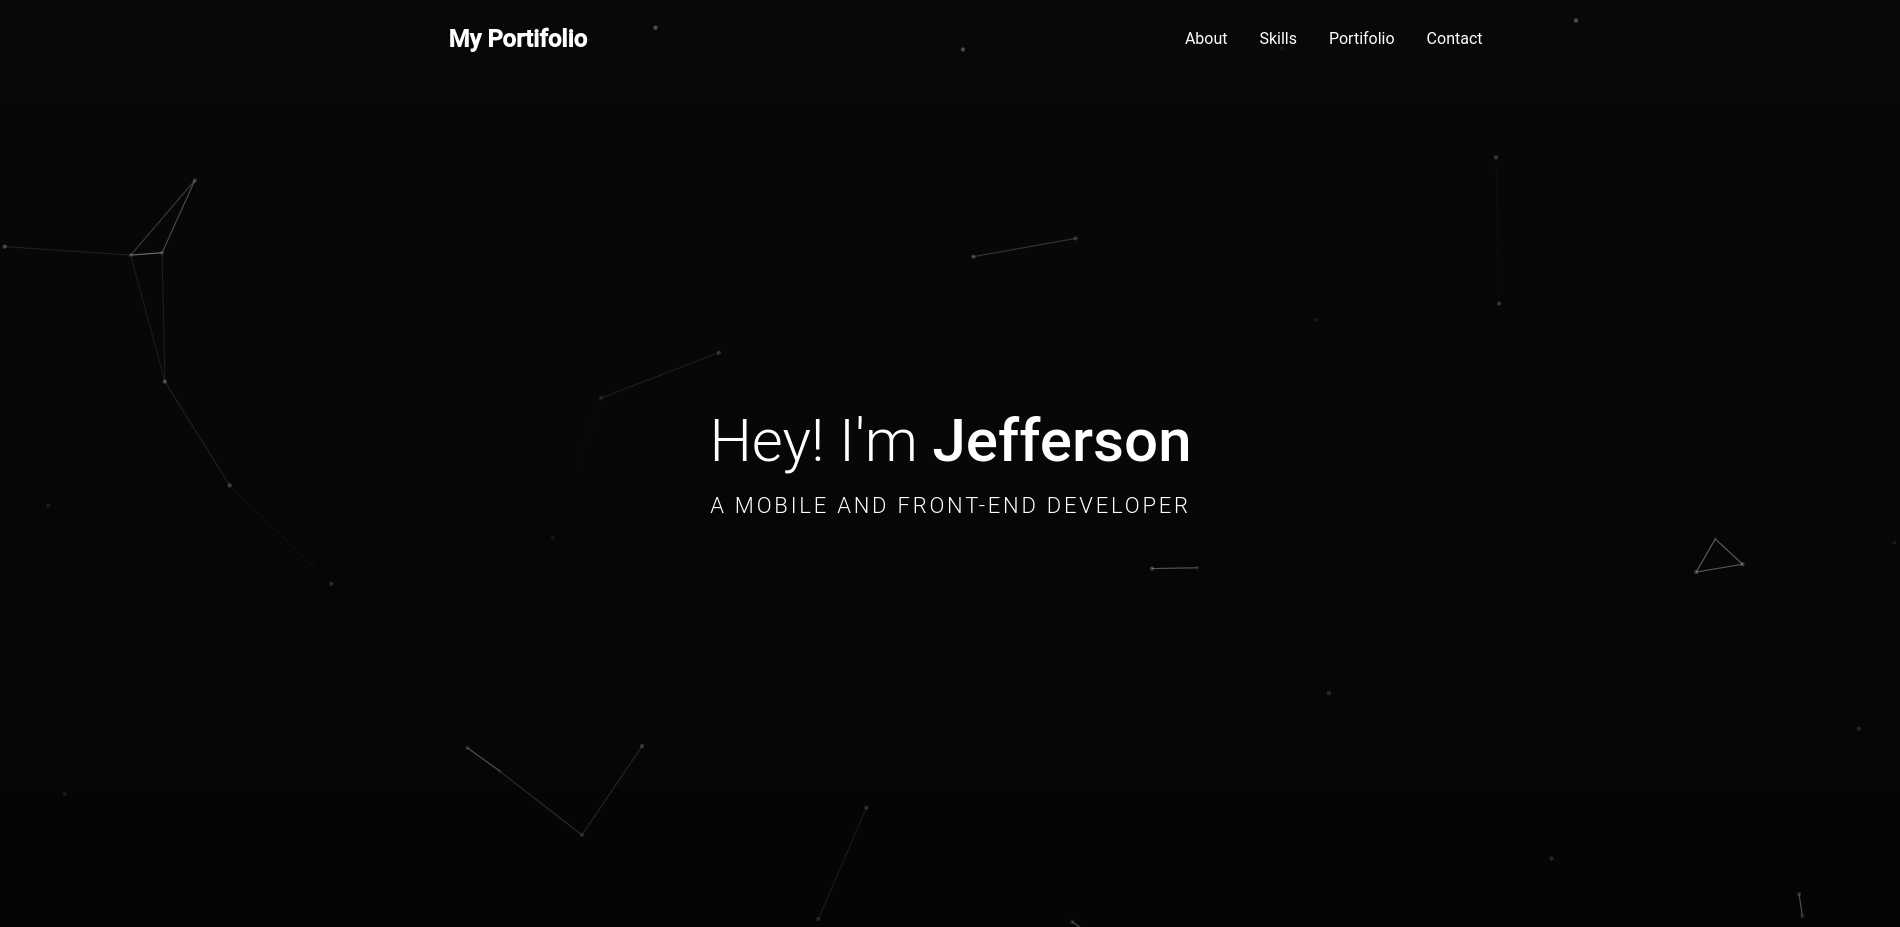
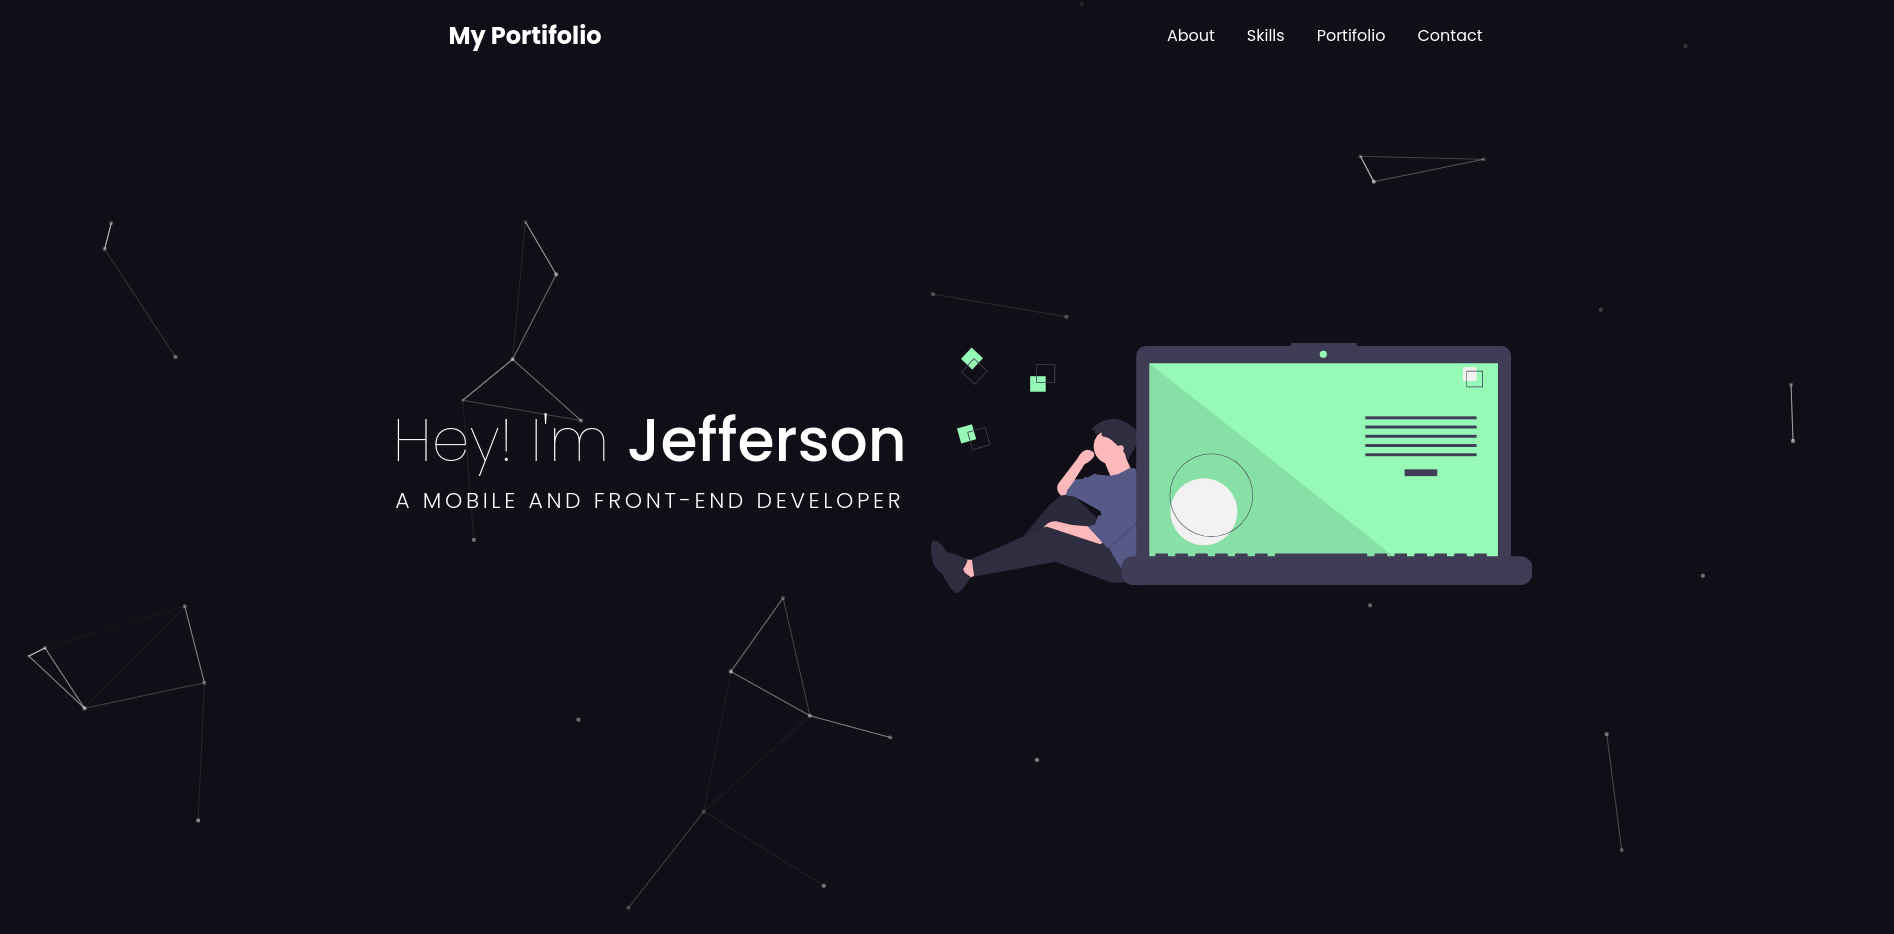
Skills e Contact arrumados

diff --git a/src/pages/index.tsx b/src/pages/index.tsx
@@ -16,6 +16,7 @@ import img from '../images/svg-1.svg'
 import {
   Container,
   Container2,
+  Contact,
   Home,
   About,
   Skills,
@@ -29,14 +30,7 @@ import {
   Column2,
   ImgWrap,
   Img,
-  Line,
-  Wrap,
-  SocialMedia,
-  SocialMediaWrap,
-  SocialIcons,
-  SocialIconsLink,
   SocialLogo,
-  WebsiteRights,
 } from './styles'
 
 const LandingPage = (): JSX.Element => {
@@ -114,52 +108,57 @@ const LandingPage = (): JSX.Element => {
           <Tilt>
             <div className="card">
               <div className="content">
-                <h2>01</h2>
-                <h3>Card One</h3>
-                <p>
+                <h2>JS</h2>
+
+                <SiJavascript size="200px" color="#E9D44C" />
+                {/* <h3>Card One</h3> */}
+                {/* <p>
                   lorem ipsum dolor sit amet, consectetur adipis ac turpis eu
                   non pro id el component e.
-                </p>
-                <a href="/">Read More</a>
+                </p> */}
+                <a href="/">Javascript</a>
               </div>
             </div>
           </Tilt>
           <Tilt>
             <div className="card">
               <div className="content">
-                <h2>02</h2>
-                <h3>Card Two</h3>
+                <h2>JSX</h2>
+                <SiReact size="200px" color="#61DBFB" />
+                {/* <h3>Card Two</h3>
                 <p>
                   lorem ipsum dolor sit amet, consectetur adipis ac turpis eu
                   non pro id el component e.
-                </p>
-                <a href="/">Read More</a>
+                </p> */}
+                <a href="/">React</a>
               </div>
             </div>
           </Tilt>
           <Tilt>
             <div className="card">
               <div className="content">
-                <h2>03</h2>
-                <h3>Card Three</h3>
+                <h2>HTML</h2>
+                <SiHtml5 size="200px" color="#DC4D25" />
+                {/* <h3>Card Three</h3>
                 <p>
                   lorem ipsum dolor sit amet, consectetur adipis ac turpis eu
                   non pro id el component e.
-                </p>
-                <a href="/">Read More</a>
+                </p> */}
+                <a href="/">HTML</a>
               </div>
             </div>
           </Tilt>
           <Tilt>
             <div className="card">
               <div className="content">
-                <h2>04</h2>
-                <h3>Card Four</h3>
+                <h2>CSS</h2>
+                <SiCss3 size="200px" color="#1A6FB4" />
+                {/* <h3>Card Four</h3>
                 <p>
                   lorem ipsum dolor sit amet, consectetur adipis ac turpis eu
                   non pro id el component e.
-                </p>
-                <a href="/">Read More</a>
+                </p> */}
+                <a href="/">CSS</a>
               </div>
             </div>
           </Tilt>
@@ -189,36 +188,36 @@ const LandingPage = (): JSX.Element => {
           </Carousel.Item>
         </Carousel>
       </Container2>
-      <Container2 id="contact">
-        <Wrap>
-          <SocialMedia>
-            <SocialMediaWrap>
-              <SocialLogo to="/" onClick={toggleHome}>
-                my portifolio
-              </SocialLogo>
-              <WebsiteRights>
-                jefferson © {new Date().getFullYear()} All rights reserved
-              </WebsiteRights>
-              <SocialIcons>
-                <SocialIconsLink
-                  href="https://www.linkedin.com/in/jeffersonsantosaguiar/"
-                  target="_blank"
-                  aria-label="Linkedin"
-                >
-                  <FaLinkedin />
-                </SocialIconsLink>
-                <SocialIconsLink
-                  href="https://github.com/jeffersondossantosaguiar"
-                  target="_blank"
-                  aria-label="Github"
-                >
-                  <FaGithub />
-                </SocialIconsLink>
-              </SocialIcons>
-            </SocialMediaWrap>
-          </SocialMedia>
-        </Wrap>
-      </Container2>
+      <Contact id="contact">
+        <div className="content">
+          <div className="social-media-wrap">
+            <SocialLogo to="/" onClick={toggleHome}>
+              My Portifolio
+            </SocialLogo>
+            <small className="web-site-rights">
+              jefferson © {new Date().getFullYear()} All rights reserved
+            </small>
+            <div className="social-icons">
+              <a
+                href="https://www.linkedin.com/in/jeffersonsantosaguiar/"
+                target="_blank"
+                rel="noreferrer"
+                aria-label="Linkedin"
+              >
+                <FaLinkedin />
+              </a>
+              <a
+                href="https://github.com/jeffersondossantosaguiar"
+                target="_blank"
+                rel="noreferrer"
+                aria-label="Github"
+              >
+                <FaGithub />
+              </a>
+            </div>
+          </div>
+        </div>
+      </Contact>
     </Container>
   )
 }

diff --git a/src/pages/styles.ts b/src/pages/styles.ts
@@ -145,9 +145,9 @@ export const Skills = styled.div`
 
       .content h2 {
         position: absolute;
-        top: -25px;
+        top: -10px;
         right: 30px;
-        font-size: 8em;
+        font-size: 5em;
         color: rgba(255, 255, 255, 0.05);
         pointer-events: none;
       }
@@ -155,6 +155,9 @@ export const Skills = styled.div`
         font-size: 1.8em;
         color: #fff;
         z-index: 1;
+      }
+      .content img {
+        width: 100px;
       }
       .content p {
         font-size: 1em;
@@ -255,6 +258,51 @@ export const Line = styled.div`
   justify-content: space-around;
   height: 150px;
 `
+export const Contact = styled.div`
+  height: 100vh;
+  display: flex;
+
+  .content {
+    padding: 48px 24px;
+    display: flex;
+    flex-direction: column;
+    justify-content: center;
+    align-items: center;
+    max-width: 80%;
+    margin: 0 auto;
+
+    .social-media-wrap {
+      display: flex;
+      justify-content: space-between;
+      flex-direction: column;
+      align-items: center;
+      max-width: 1100px;
+      margin: 40px auto 0 auto;
+    }
+
+    .web-site-rights {
+      margin-bottom: 16px;
+    }
+
+    .social-icons {
+      display: flex;
+      justify-content: space-between;
+      align-items: center;
+      width: 240px;
+      font-size: 50px;
+    }
+
+    a {
+      color: #fff;
+      text-decoration: none;
+
+      &:hover {
+        color: #01bf71;
+        transition: 0.3s ease-out;
+      }
+    }
+  }
+`
 export const Container2 = styled.div`
   height: 100vh;
   display: flex;
@@ -283,35 +331,10 @@ export const Container2 = styled.div`
     }
   }
 `
-export const Wrap = styled.div`
-  padding: 48px 24px;
-  display: flex;
-  flex-direction: column;
-  justify-content: center;
-  align-items: center;
-  max-width: 1100px;
-  margin: 0 auto;
-`
-export const SocialMedia = styled.section`
-  max-width: 1000px;
-  width: 100%;
-`
-export const SocialMediaWrap = styled.div`
-  display: flex;
-  justify-content: space-between;
-  align-items: center;
-  max-width: 1100px;
-  margin: 40px auto 0 auto;
-
-  @media screen and (max-width: 820px) {
-    flex-direction: column;
-  }
-`
 export const SocialLogo = styled(LinkR)`
   justify-self: start;
   cursor: pointer;
-  text-decoration: none;
-  font-size: 1.5rem;
+  font-size: 3rem;
   display: flex;
   align-items: center;
   margin-bottom: 16px;
@@ -322,21 +345,8 @@ export const SocialLogo = styled(LinkR)`
     text-decoration: none;
     transition: 0.3s ease-out;
   }
-`
-export const WebsiteRights = styled.small`
-  margin-bottom: 16px;
-`
-export const SocialIcons = styled.div`
-  display: flex;
-  justify-content: space-between;
-  align-items: center;
-  width: 240px;
-`
-export const SocialIconsLink = styled.a`
-  font-size: 24px;
 
-  &:hover {
-    color: #01bf71;
-    transition: 0.3s ease-out;
+  @media screen and (max-width: 480px) {
+    font-size: 2rem;
   }
 `
